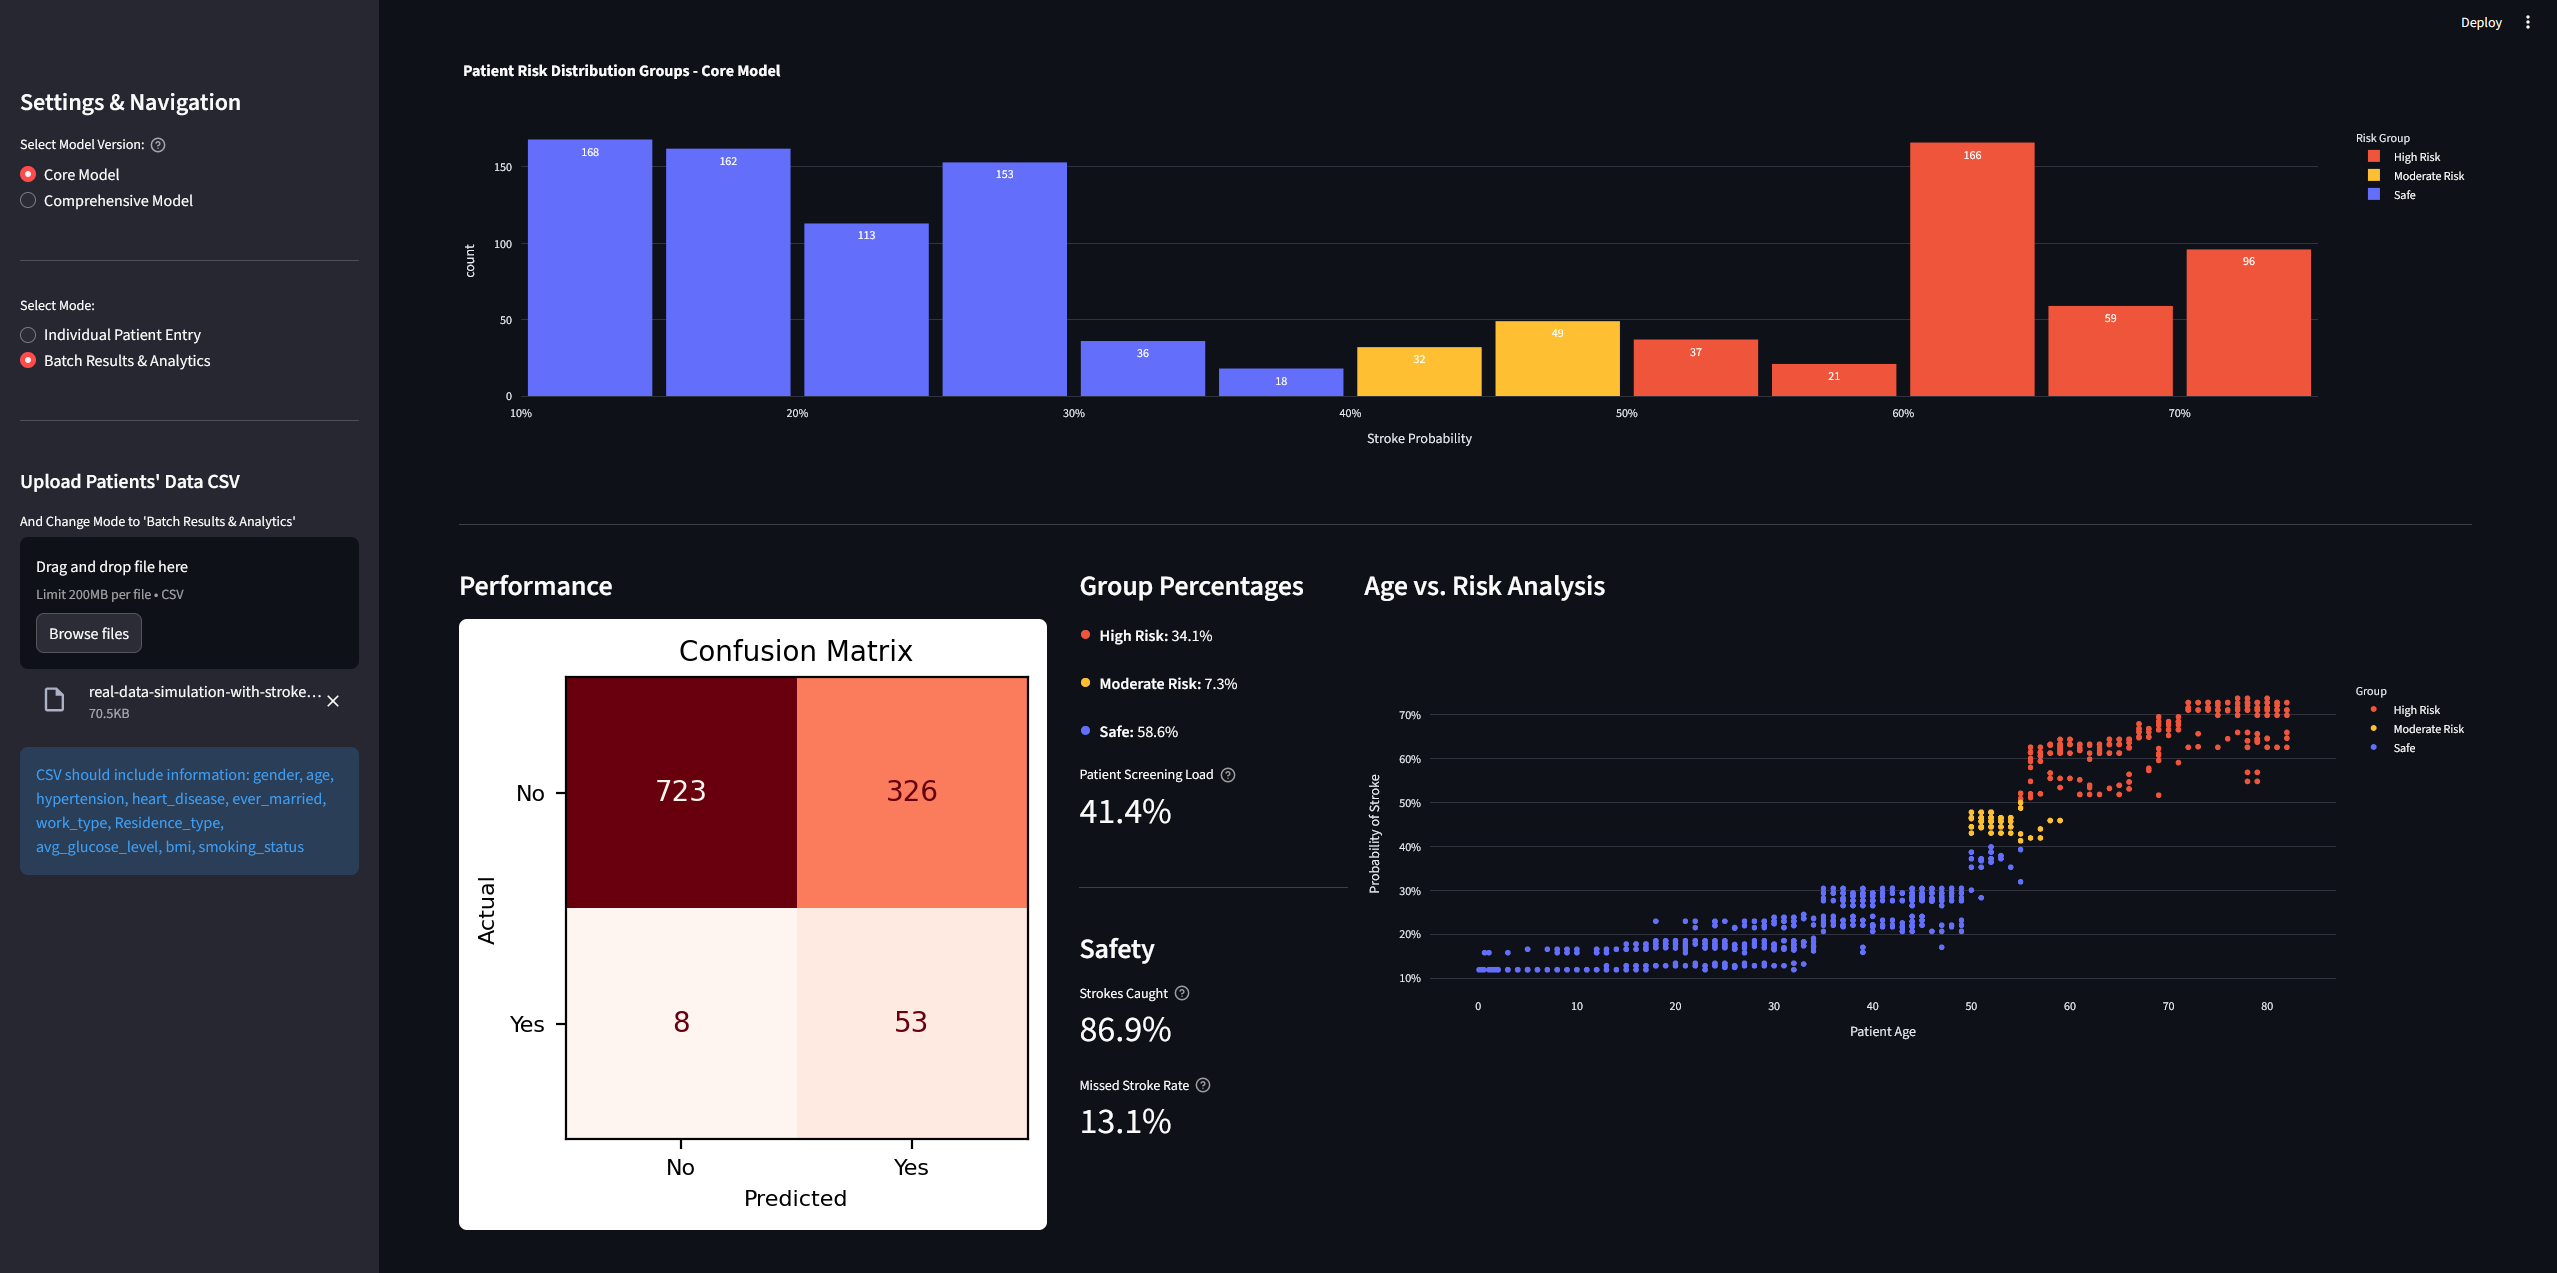
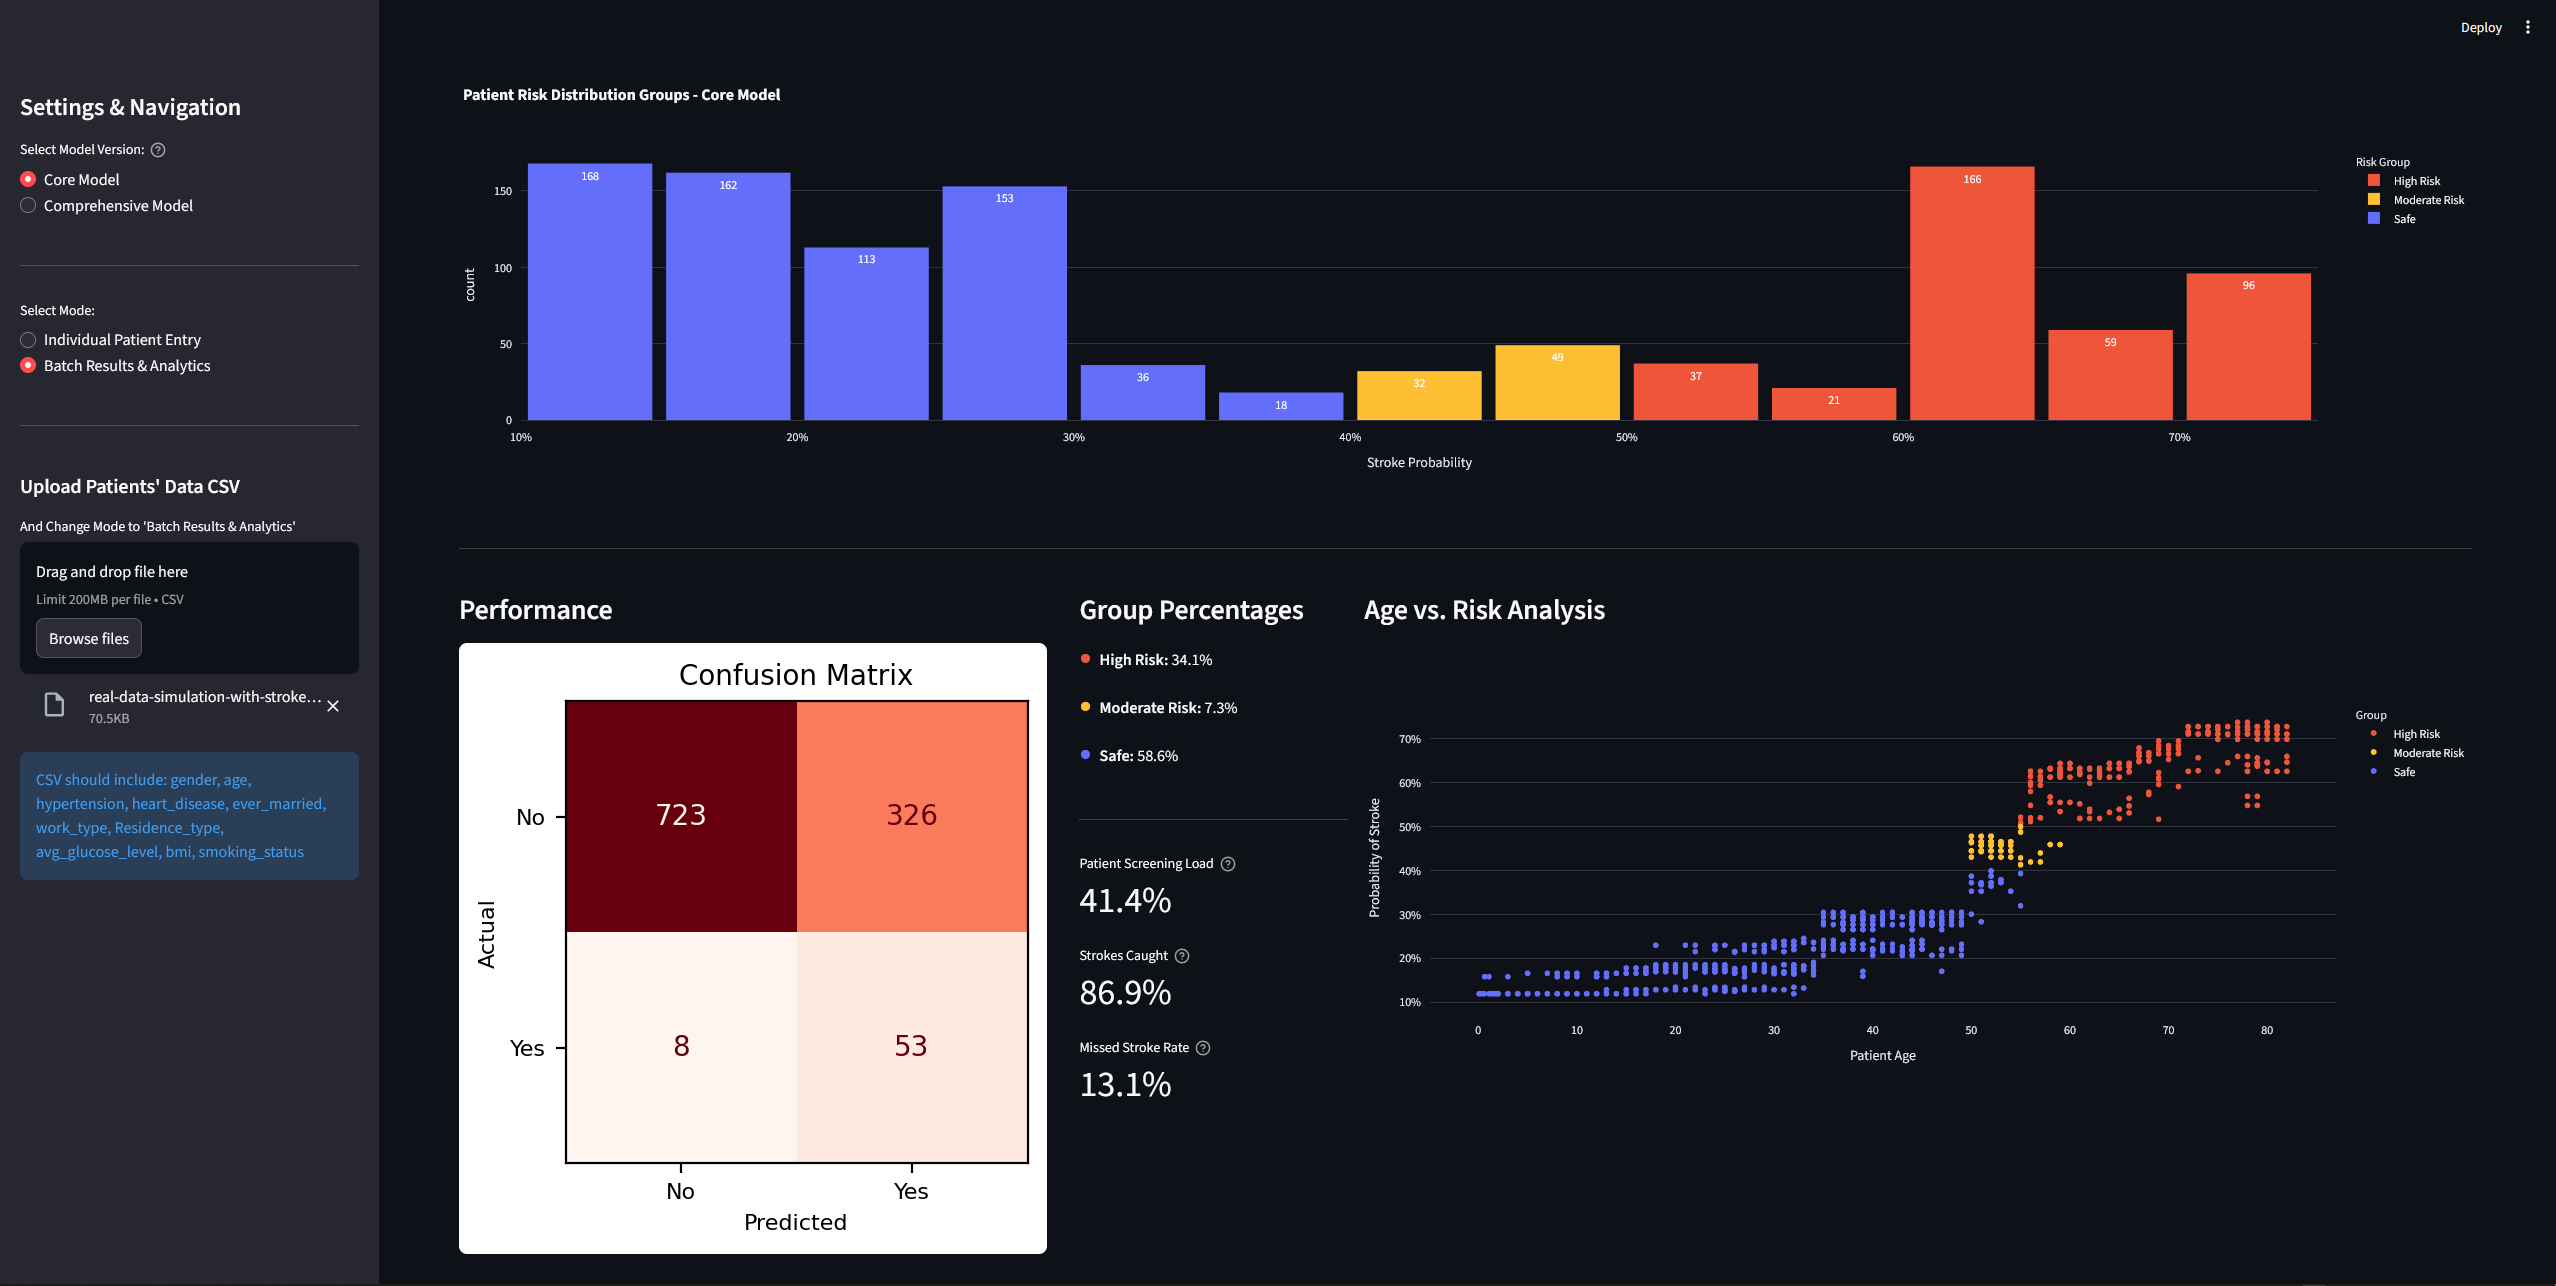
added screenshot

diff --git a/README.md b/README.md
@@ -1,5 +1,4 @@
-![Main Dashboard Interface](image-1.png)
-
+![Main Dashboard Interface](image.png)
 # Stroke Prediction System
 An end-to-end Machine Learning pipeline utilizing AdaBoost and ADASYN to predict stroke risk. Optimized for medical clinical priority using F2-Scoring to maximize patient recall (87% on unseen data). Includes a SHAP-based explainability layer and a Streamlit deployment dashboard.
 
